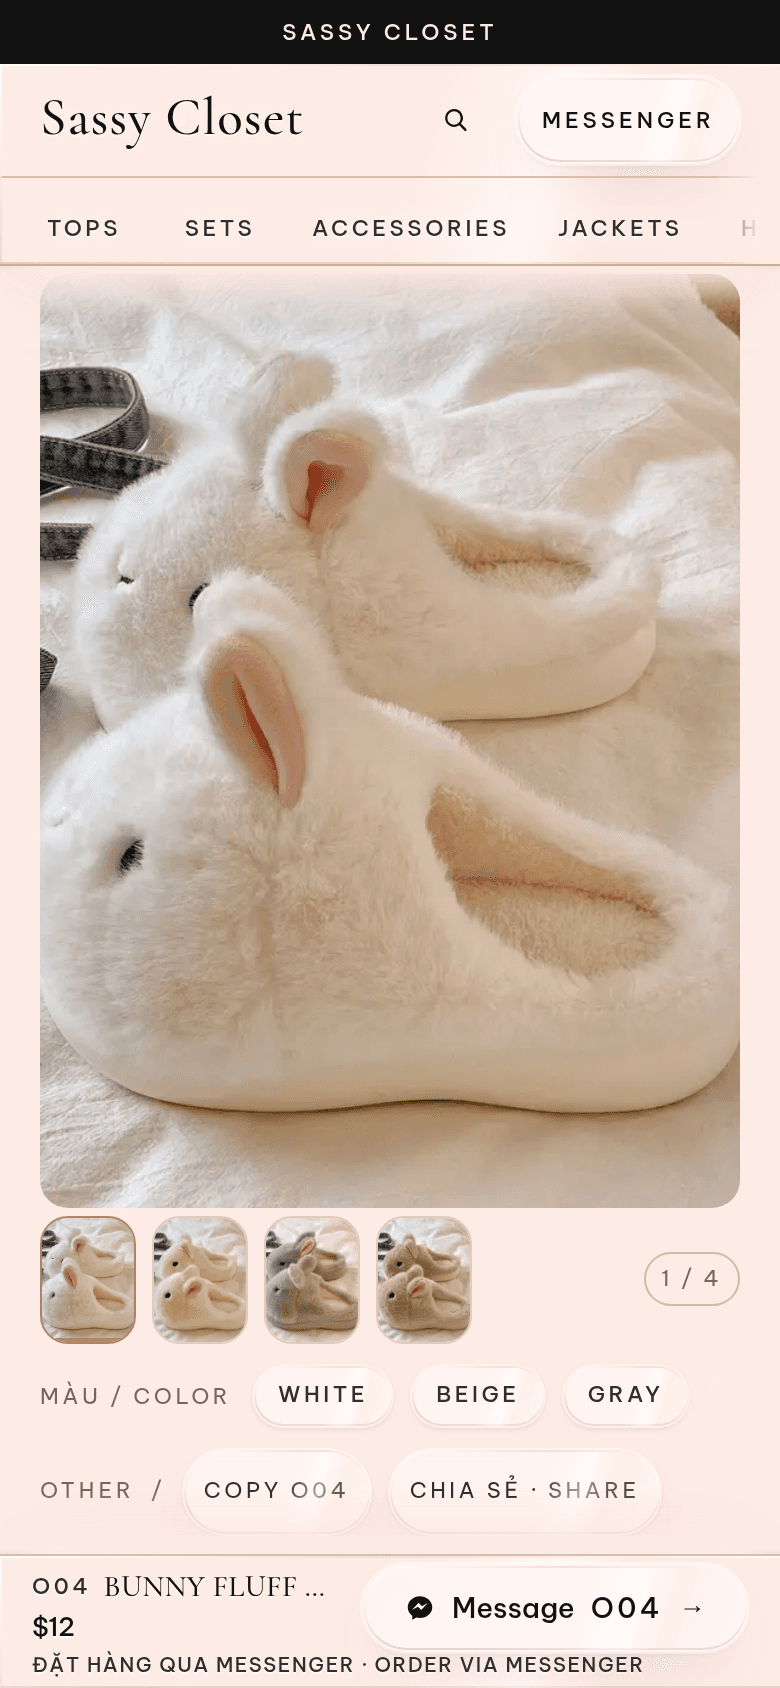
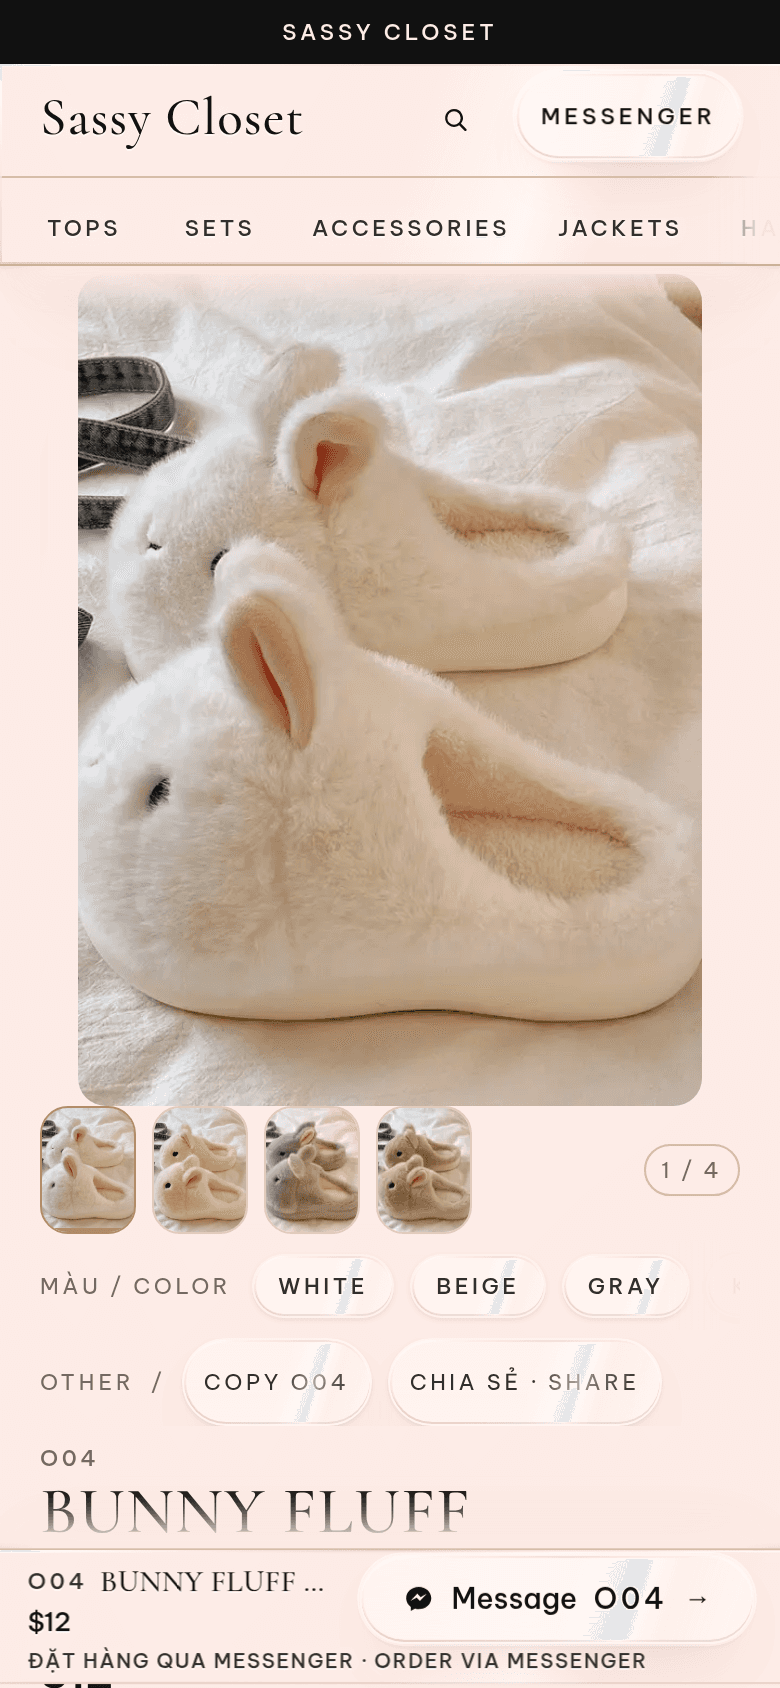
Keep the product name in place when colors move under the thumbnails.
The phone photo gives back the color row's height, so the breadcrumb and the name stay above the Message bar. Looks with no colors keep the full photo.

diff --git a/sassy-closet-shop/app/globals.css b/sassy-closet-shop/app/globals.css
@@ -1731,12 +1731,14 @@ button[aria-checked="true"] > .sc-chip-face {
   }
 }
 
-/* r5: phone PDP puts colors under the thumbnails. svh budget keeps 3:4,
-   with a 260px floor so a short Safari window never squeezes the photo. */
+/* r5: phone PDP moves only the color row under the thumbnails.
+   The photo gives that row's height back, so the breadcrumb and the name
+   stay where they were. 3:4, never cropped. A 260px floor keeps a short
+   window from squeezing the photo; on that window the floor wins. */
 @media (max-width: 1023px) {
   .ky-pdp {
     --pdp-photo-budget: calc(
-      100svh - 8.25rem - 0.25rem - 0.25rem - 4rem - 0.25rem - 2.75rem - 0.5rem - 4.75rem
+      100svh - 8.25rem - 0.25rem - 4rem - 0.25rem - 2.75rem - 0.25rem - 2.75rem - 0.25rem - 2.75rem - 0.5rem - 4.75rem
     );
     row-gap: 0.25rem;
   }
@@ -1784,23 +1786,27 @@ button[aria-checked="true"] > .sc-chip-face {
     min-width: 0;
   }
 
-  .ky-pdp-media,
-  .ky-pdp-colors {
-    width: min(100%, max(16.25rem, calc(var(--pdp-photo-budget) * 3 / 4)));
-    justify-self: center;
+  .ky-pdp-media {
+    width: 100%;
   }
 
   .ky-pdp-media .ky-gallery-frame {
-    width: 100%;
+    width: min(100%, max(16.25rem, calc(var(--pdp-photo-budget) * 3 / 4)));
     height: auto;
     max-height: none;
     aspect-ratio: 3 / 4;
     margin-inline: auto;
   }
 
+  /* No color row: nothing was inserted, so the photo stays full width. */
+  .ky-pdp:not(:has(.ky-pdp-colors)) .ky-gallery-frame {
+    width: 100%;
+  }
+
   .ky-pdp-colors {
     position: relative;
     display: block;
+    width: 100%;
     margin-top: 0;
     min-height: 2.75rem;
     padding-left: 6.5rem;
@@ -1820,10 +1826,6 @@ button[aria-checked="true"] > .sc-chip-face {
 
   .ky-pdp-colors > p {
     margin-top: 0.15rem;
-  }
-
-  .ky-pdp-sizes {
-    margin-top: 0.75rem;
   }
 }
 

diff --git a/sassy-closet-shop/components/product-gallery.tsx b/sassy-closet-shop/components/product-gallery.tsx
@@ -147,7 +147,7 @@ export function ProductGallery({
         </p>
       ) : null}
       {reel.length > 0 ? (
-        <div className="mt-1 flex min-w-0 items-center gap-2">
+        <div className="mt-0 flex min-w-0 items-center gap-2">
         <div ref={thumbRailRef} className="ky-thumb-rail sc-thumb-rail flex min-w-0 max-w-full flex-1 flex-nowrap gap-2 overflow-x-auto tab-scroll">
           {thumbs.map((thumb, thumbIndex) => {
             const src = version ? cacheBustMediaSrc(thumb.src, version) : thumb.src;
